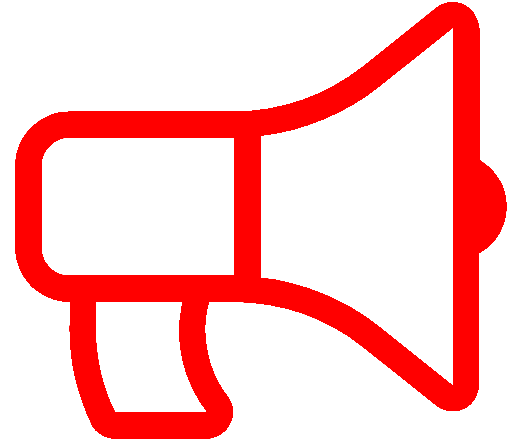
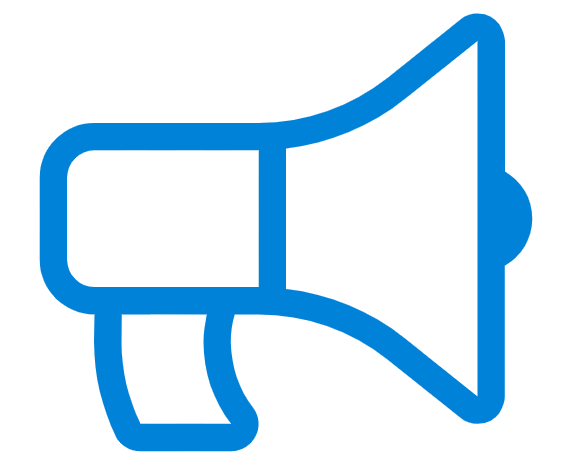
converted to rxnotify

diff --git a/src/modules/views/ContactUs.js b/src/modules/views/ContactUs.js
@@ -15,8 +15,8 @@ const styles = theme => ({
 	root: {
 		paddingTop: theme.spacing(15),
 		paddingBottom: theme.spacing(10),
-		paddingLeft: theme.spacing(10),
 		display: 'flex',
+        position: 'relative',
 	},
 	cardWrapper: {
 		zIndex: 1,
@@ -61,9 +61,27 @@ const styles = theme => ({
 function ProductCTA(props) {
 	const { classes } = props;
 	const [open, setOpen] = React.useState(false);
+	const [status, setStatus] = React.useState("");
 
-	const handleSubmit = event => {
-		event.preventDefault();
+	const handleSubmit = (ev) => {
+		ev.preventDefault();
+		const form = ev.target;
+		const data = new FormData(form);
+		const xhr = new XMLHttpRequest();
+		xhr.open(form.method, form.action);
+		xhr.setRequestHeader("Accept", "application/json");
+		xhr.onreadystatechange = () => {
+		if (xhr.readyState !== XMLHttpRequest.DONE) return;
+		if (xhr.status === 200) {
+			form.reset();
+			setStatus("SUCCESS");
+			console.log("Message SENT!");
+		} else {
+			setStatus("ERROR");
+			console.log("Message NOT SENT!");
+		}
+		};
+		xhr.send(data);
 		setOpen(true);
 	};
 
@@ -76,14 +94,19 @@ function ProductCTA(props) {
 			<Grid container>
 				<Grid item xs={12} md={6} className={classes.cardWrapper}>
 					<div className={classes.card}>
-						<form onSubmit={handleSubmit} className={classes.cardContent}>
+						<form 
+							onSubmit={handleSubmit} 
+							className={classes.cardContent}
+        					action="https://formspree.io/xnqnnboy"
+        					method="POST"
+						>
 							<Typography variant="h2" component="h2" gutterBottom>
 								Want more information?
 							</Typography>
 							<Typography variant="h5">
 								Enter your email address and we will be in touch.
 							</Typography>
-							<TextField noBorder className={classes.textField} placeholder="Your email" />
+							<TextField noBorder className={classes.textField} placeholder="Your email" type="email" name="email"/>
 							<Button type="submit" color="primary" variant="contained" className={classes.button}>
 								Submit
 							</Button>

diff --git a/src/modules/views/HeroAnimation.js b/src/modules/views/HeroAnimation.js
@@ -13,16 +13,20 @@ import animation from '../static/img/animation-crop.gif';
 import background from '../static/img/productCurvyLines.png';
 
 const styles = theme => ({
-    root: {
-        paddingTop: theme.spacing(20),
-		paddingBottom: theme.spacing(10),
-		paddingLeft: theme.spacing(11),
+    preroot:{
         backgroundColor: theme.palette.secondary.light,
         borderBottomStyle: 'solid',
-		borderBottomColor: 'red',
+        borderBottomColor: '#0082D9',
+    },
+    root: {
+        paddingTop: theme.spacing(20),
+        paddingBottom: theme.spacing(10),
+		width: "100%",
+        display: 'flex',
+        position: 'relative',
     },
     cardWrapper: {
-      	zIndex: 1,
+          zIndex: 1,
     },
     card: {
       	display: 'flex',
@@ -50,7 +54,7 @@ const styles = theme => ({
       	position: 'absolute',
       	top: '-10%',
       	left: '-10%',
-      	maxWidth: 600,
+      	width: 600,
     },
     curvyLines: {
         pointerEvents: 'none',
@@ -64,7 +68,8 @@ function HeroAnimation(props) {
     const { classes } = props;
     
     return (
-        <Container className={classes.root} component="section" maxWidth={false}>
+        <div className={classes.preroot}>
+        <Container className={classes.root} component="section">
             <img src={background} className={classes.curvyLines} alt="curvy lines" />
             <Grid container>
                 <Grid item xs={12} md={6} className={classes.cardWrapper}>
@@ -92,6 +97,7 @@ function HeroAnimation(props) {
                 </Grid>
             </Grid>
         </Container>
+        </div>
     );
 }
 

diff --git a/src/modules/views/Banner.js b/src/modules/views/Banner.js
@@ -6,7 +6,7 @@ import Toolbar from '@material-ui/core/Toolbar';
 import Typography from '@material-ui/core/Typography';
 import Button from '@material-ui/core/Button';
 
-import logo from '../static/img/logo_nobackground.png';
+// import logo from '../../../public/logo';
 
 const useStyles = makeStyles(theme => ({
 	banner:{
@@ -23,6 +23,9 @@ const useStyles = makeStyles(theme => ({
 		paddingLeft: '2em',
 		color: 'inherit',
     },
+    icon: {
+        paddingTop: "5px"
+    }
 }));
   
 
@@ -33,14 +36,13 @@ export default function Banner () {
     return (
         <AppBar position="static" className={classes.banner}>
             <Toolbar>
-                <img src={logo} 
-                    alt="logo" 
-                    height="70" 
-                    width="80" 
-                />
-                <Typography variant="h6" className={classes.title}>
-                    RxToolbox
-                </Typography>
+                <div className={classes.title}>
+                    <img src="/logo.png" 
+                        alt="logo" 
+                        height="60"
+                        className={classes.icon}
+                    />
+                </div>
                 <Button color="inherit" href="#contact">Contact Us</Button>
             </Toolbar>
         </AppBar>

diff --git a/src/modules/views/FeatureList.js b/src/modules/views/FeatureList.js
@@ -16,7 +16,7 @@ const styles = theme => ({
 		overflow: 'hidden',
 		backgroundColor: theme.palette.secondary.light,
 		borderBottomStyle: 'solid',
-		borderBottomColor: 'red',
+		borderBottomColor: '#0082D9',
 	},
 	container: {
 		marginTop: theme.spacing(15),
@@ -31,7 +31,7 @@ const styles = theme => ({
 		padding: theme.spacing(0, 5),
 	},
 	image: {
-		height: 55,
+		height: 75,
 	},
 	title: {
 		marginTop: theme.spacing(5),

diff --git a/src/modules/views/HeroText.js b/src/modules/views/HeroText.js
@@ -15,10 +15,8 @@ const styles = theme => ({
         display: 'flex',
         backgroundColor: '#1f211f', 
         backgroundPosition: 'center',
-        borderTopStyle: 'solid',
-        borderTopColor: 'red',
         borderBottomStyle: 'solid',
-        borderBottomColor: 'red',
+        borderBottomColor: '#0082D9',
     },
     h5: {
         marginBottom: theme.spacing(4),

diff --git a/src/modules/views/Footer.js b/src/modules/views/Footer.js
@@ -26,9 +26,9 @@ const styles = theme => ({
 		display: 'flex',
 		backgroundColor: theme.palette.secondary.light,
 		borderBottomStyle: 'solid',
-		borderBottomColor: 'red',
+		borderBottomColor: '#0082D9',
 		borderTopStyle: 'solid',
-		borderTopColor: 'red',
+		borderTopColor: '#0082D9',
 	},
 	container: {
 		marginTop: theme.spacing(8),

diff --git a/public/index.html b/public/index.html
@@ -24,7 +24,7 @@
       work correctly both with client-side routing and a non-root public URL.
       Learn how to configure a non-root public URL by running `npm run build`.
     -->
-    <title>React App</title>
+    <title>RxNotify</title>
   </head>
   <body>
     <noscript>You need to enable JavaScript to run this app.</noscript>

diff --git a/src/modules/theme.js b/src/modules/theme.js
@@ -9,7 +9,7 @@ const rawTheme = createMuiTheme({
 			dark: '#1e1e1f',
 		},
 		secondary: {
-			light: '#fff5f8',
+			light: '#EAF4FC',
 			main: '#ff3366',
 			dark: '#e62958',
 		},
